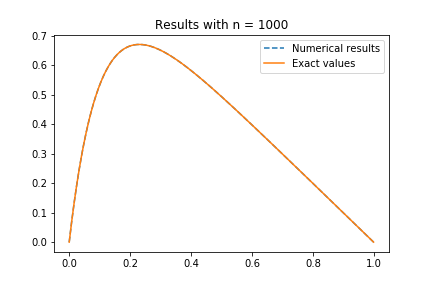
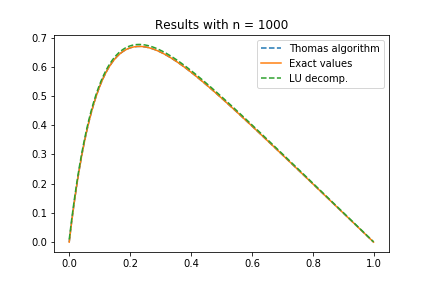
Plottet lud results
- Changed python code to plot lud results as well

diff --git a/Project1/DebugFolder/Project1Plot.py b/Project1/DebugFolder/Project1Plot.py
@@ -47,6 +47,15 @@ with open("errors_1000n.txt") as file:
 with open("errors_10e6n.txt") as file:
     error_10e6n = file.readlines()
 
+with open("results_lud_10n.txt") as file:
+    lud10 = file.readlines()
+
+with open("results_lud_100n.txt") as file:
+    lud100 = file.readlines()
+
+with open("results_lud_1000n.txt") as file:
+    lud1000 = file.readlines()
+
 
 #Extracting the max error in every errorlist. Not used to Python, sorry!
 error_max = [0,0,0,0]
@@ -65,31 +74,42 @@ for i in range(1,103):
         h100[i-1] = (1/103)*i
 for i in range(1,1003):
         h1000[i-1] = (1/1003)*i
+        
+#Initializing steplengths for the lud results (only n entries)
+h10lud = [0]*10
+h100lud = [0]*100
+h1000lud = [0]*1000
+for i in range(1,11):
+        h10lud[i-1] = (1/11)*i
+for i in range(1,101):
+        h100lud[i-1] = (1/101)*i
+for i in range(1,1001):
+        h1000lud[i-1] = (1/1001)*i
 
 #Plotting töpliz results vs exact results (n = 10,100,1000)
 import matplotlib.pyplot as plt
 fig1 = plt.figure(1)
-h_10 = plt.plot(h10,topliz10, h10, exact10, h10, lu10)
+h_10 = plt.plot(h10,topliz10, h10, exact10, h10lud, lud10)
 h_10[0].set_ls('--')
-h_10[2].set_ls('.-')
+h_10[2].set_ls('--')
 plt.title("Results with n = 10")
 plt.legend([h_10[0],h_10[1],h_10[2]],["Thomas algorithm", "Exact values","LU decomp."])
 plt.show()
 fig1.savefig('results10n.png')
 
 fig2 = plt.figure(2)
-h_100 = plt.plot(h100,topliz100, h100, exact100,h100,lu100)
+h_100 = plt.plot(h100,topliz100, h100, exact100,h100lud,lud100)
 h_100[0].set_ls('--')
-h_100[2].set_ls('.-')
+h_100[2].set_ls('--')
 plt.title("Results with n = 100")
 plt.legend([h_100[0],h_100[1],h_100[2]],["Thomas algorithm", "Exact values","LU decomp."])
 plt.show()
 fig2.savefig('results100n.png')
 
 fig3 = plt.figure(3)
-h_1000 = plt.plot(h1000,topliz1000, h1000, exact1000)
+h_1000 = plt.plot(h1000,topliz1000, h1000, exact1000,  h1000lud, lud1000)
 h_1000[0].set_ls('--')
-h_1000[2].set_ls('.-')
+h_1000[2].set_ls('--')
 plt.title("Results with n = 1000")
 plt.legend([h_1000[0],h_1000[1],h_1000[2]],["Thomas algorithm", "Exact values","LU decomp."])
 plt.show()
